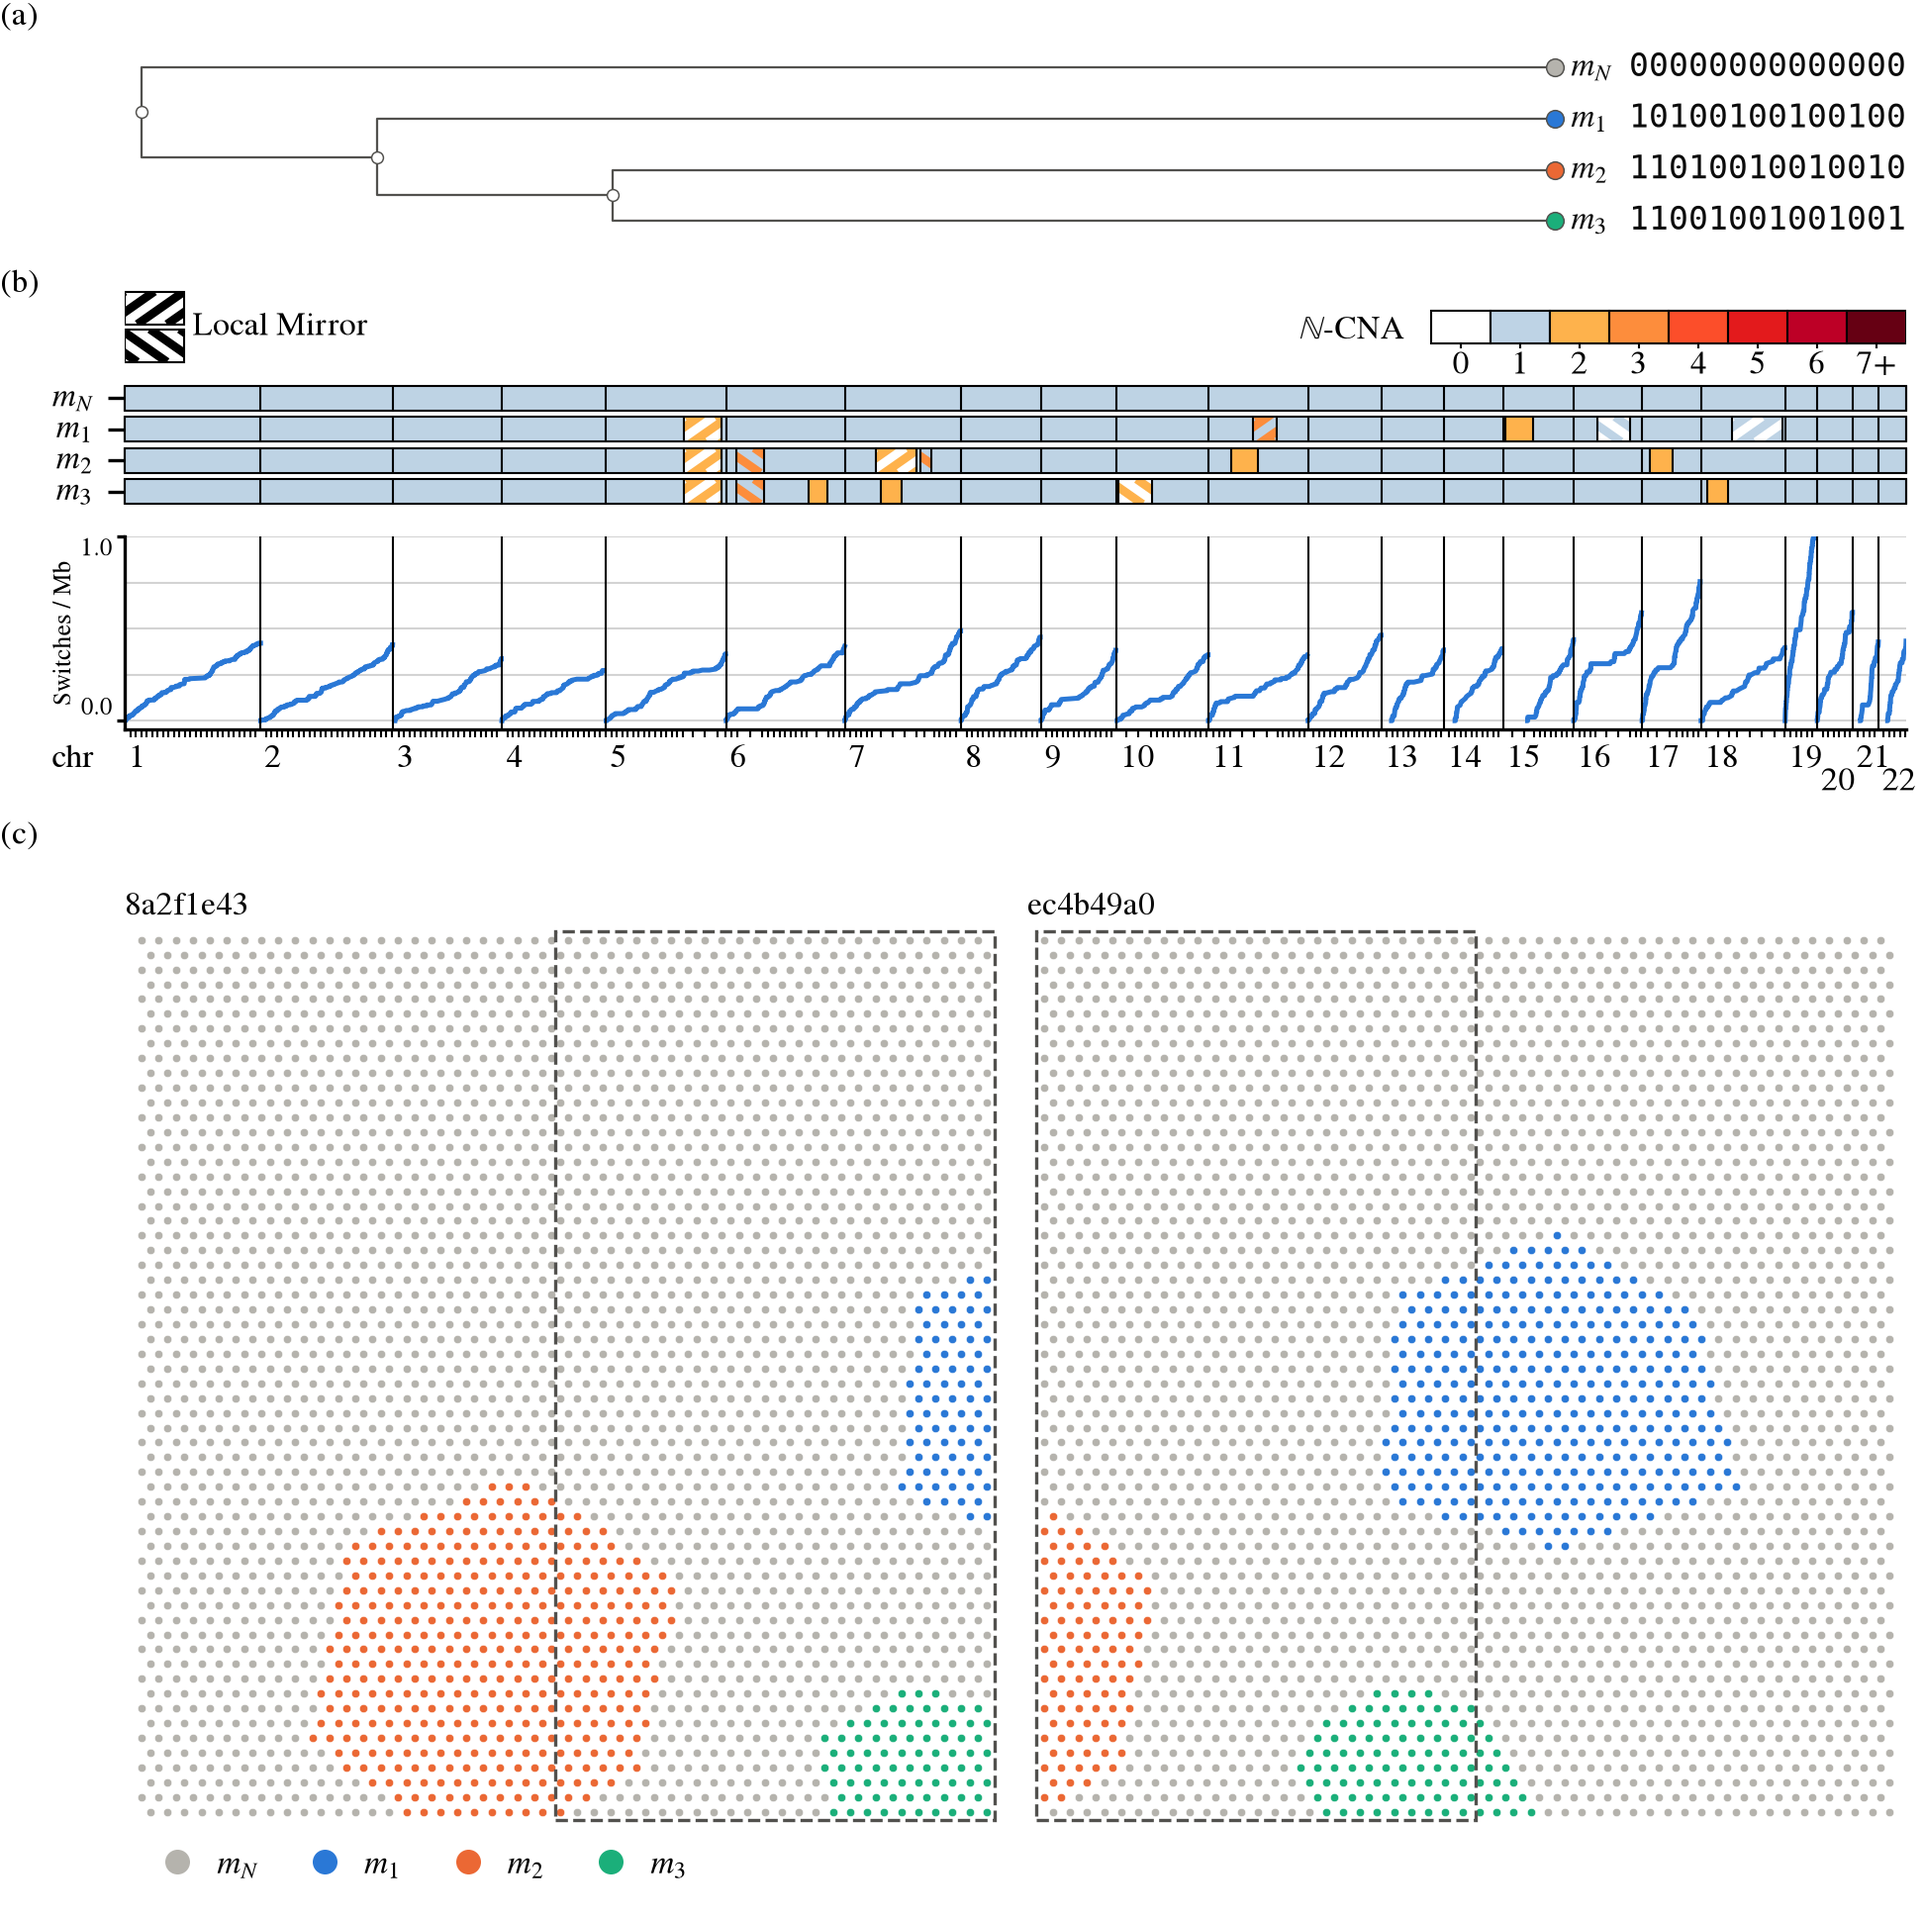
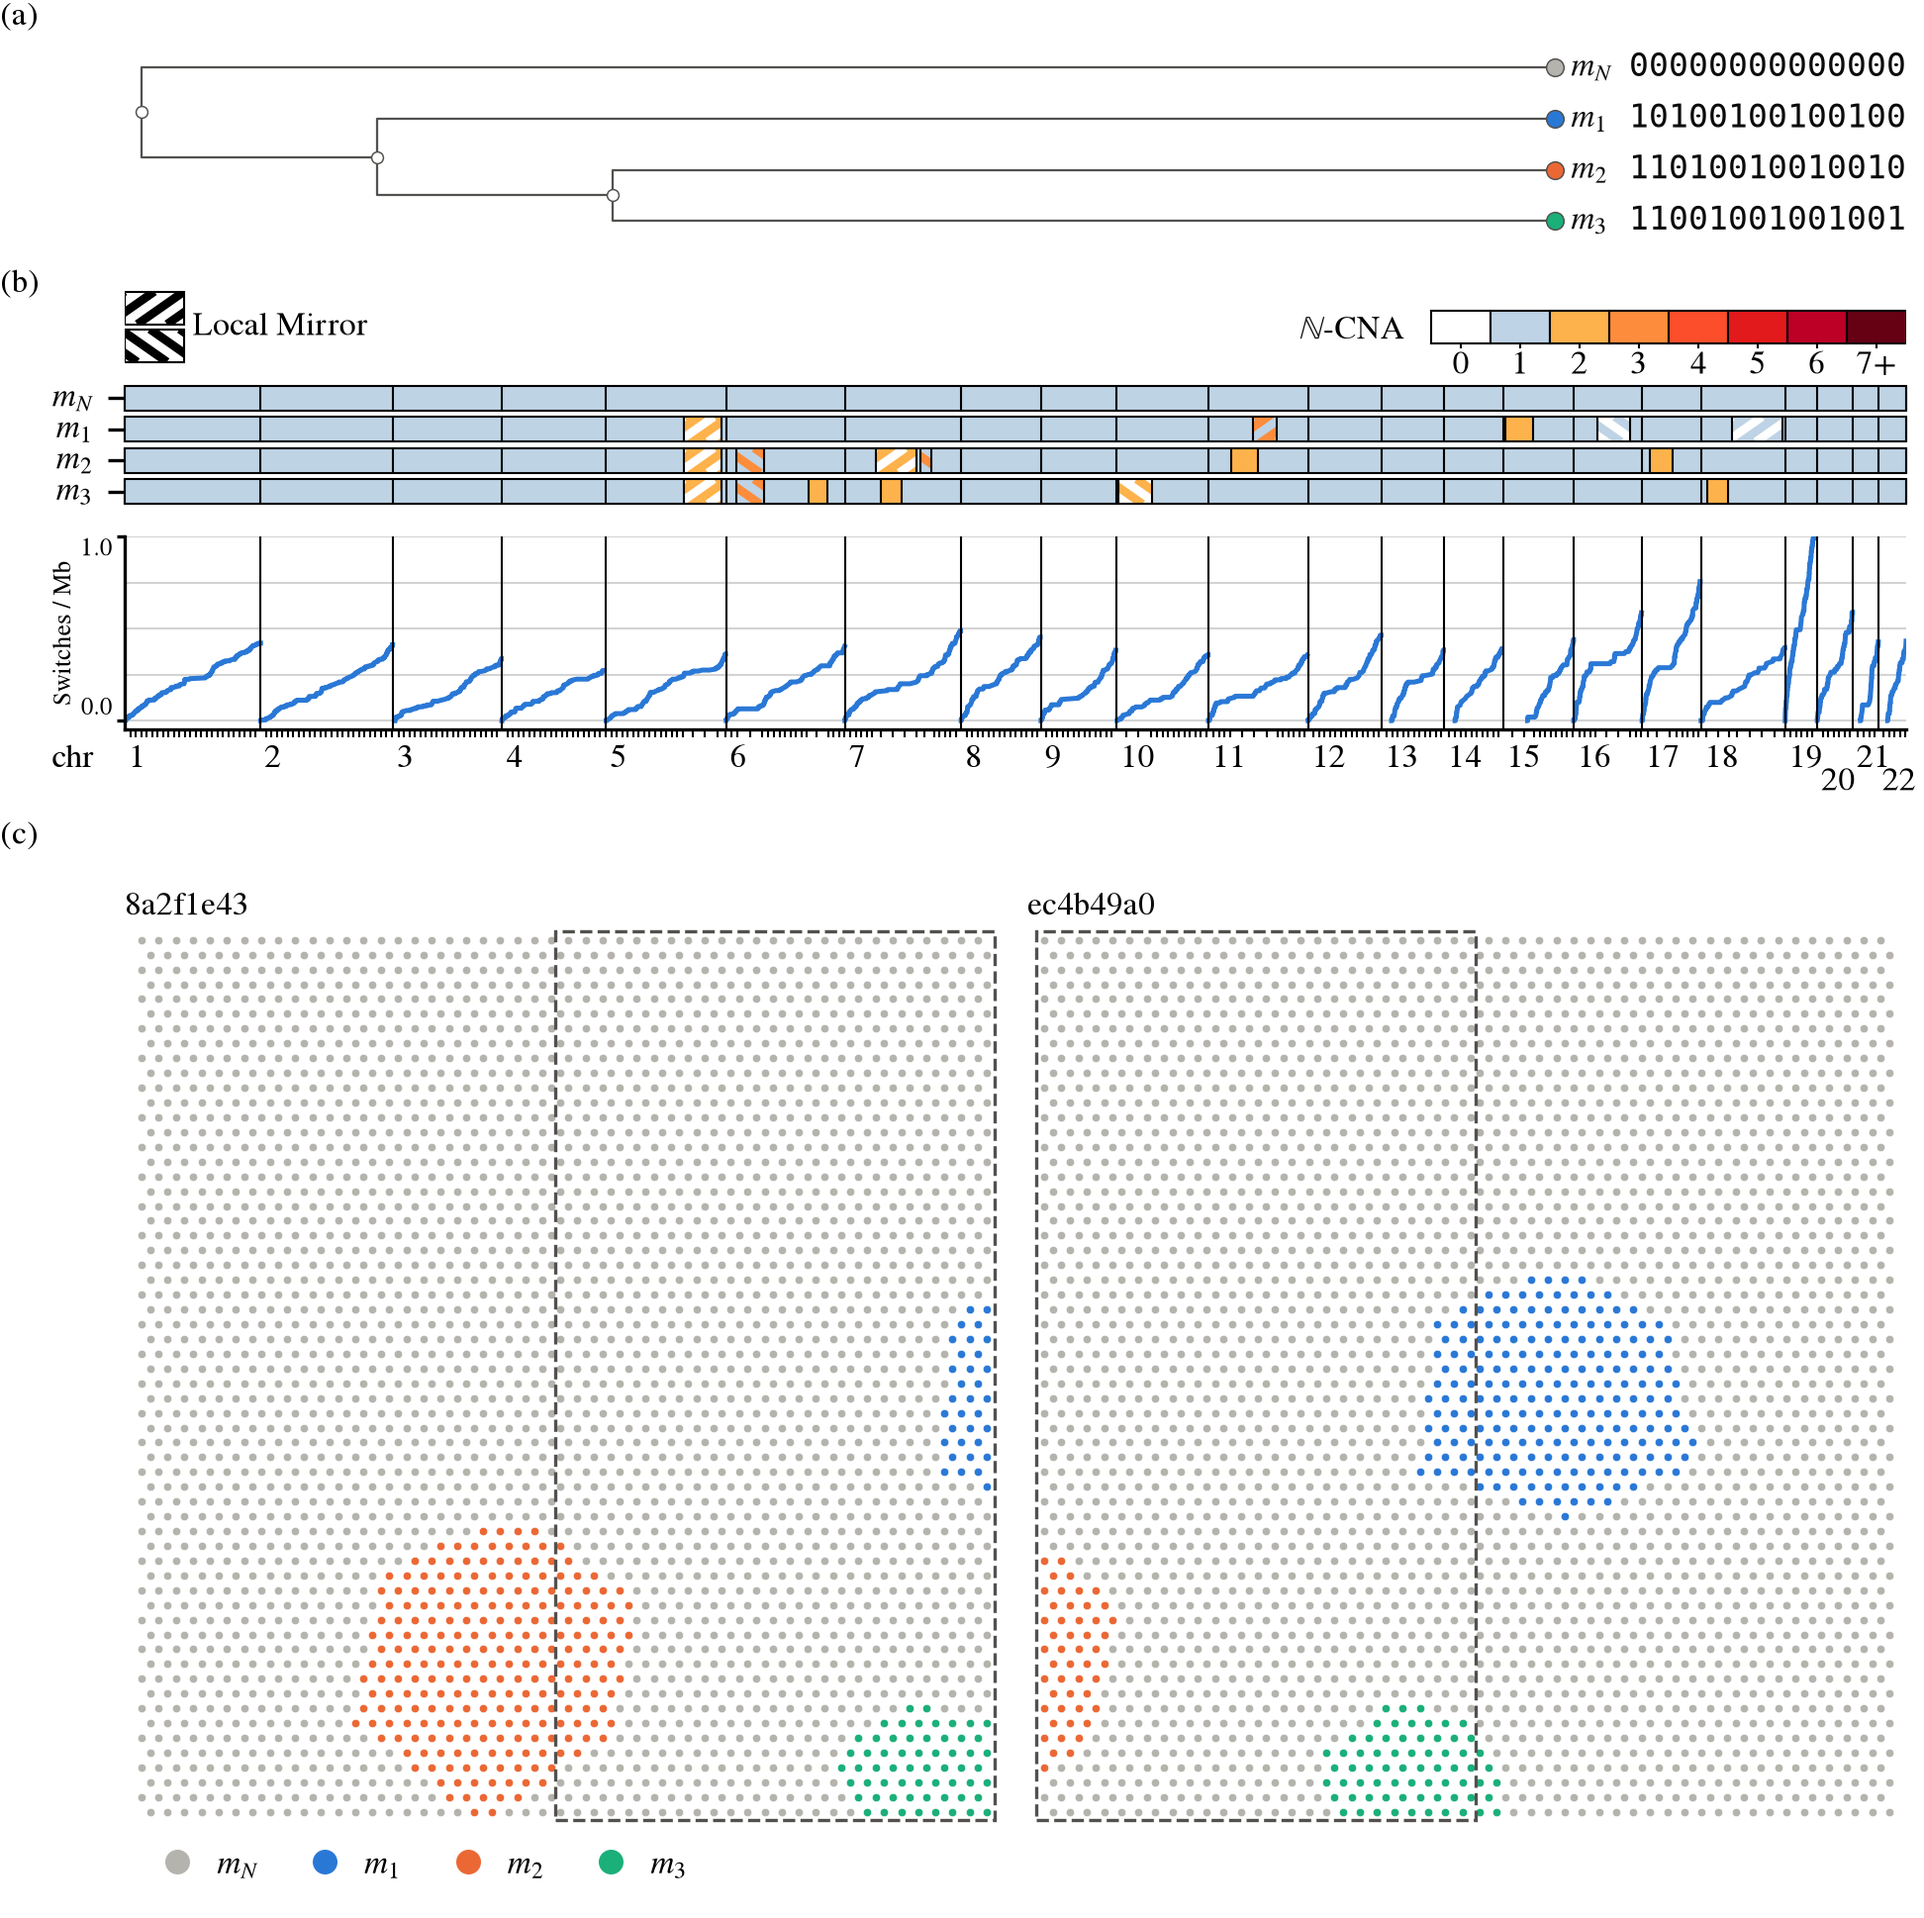
T- #810: truth pages redrawn under edge = "clip" (study_2s r0 088e4b38, r1 f225d910)
Claude-Session: https://claude.ai/code/session_01JXaY8ogGJw3Lo2bAgEaAaH

diff --git a/docs/plots/paper/README.md b/docs/plots/paper/README.md
@@ -38,7 +38,7 @@ T- #683), each on its own segmentation, so their contig widths differ.
 | `he_multisample.png` | What H&E slide do the counterpart's planted clones stain, slice by slice? | `he_slices_figure`: `port.sim.he_slide.mock_he` per slice |
 | `combined.png` | What did the run fit, genome and array on one page? | `port.extensions.combined_figure.combined_figure` |
 | `pop_combined.png` | How many UMIs does a clone need, how long must a CNA be, at each stay probability 1 - t, and how often is a true-(1, 1) segment called altered? | `port.studies.population_report.combined` on `docs/studies/population_summary_limited.json` (#745's limited rerun; #746 the full) |
-| `study/truth_combined_spatial_2s_r0.png`, `study/truth_combined_spatial_2s_r1.png` | What does the studies' draw plant, on two samples (`sim/manifests/study_2s.toml`: `study.toml` on two slices overlapping by half an array, r0 `0abf60fc`, r1 `2539a28e`), and does each realization redraw its truth? | `truth_combined_figure(spatial=True)` on each realization, as `truth_figures` draws the fixture's (T- #810) |
+| `study/truth_combined_spatial_2s_r0.png`, `study/truth_combined_spatial_2s_r1.png` | What does the studies' draw plant, on two samples (`sim/manifests/study_2s.toml`: `study.toml` on two slices overlapping by half an array, r0 `088e4b38`, r1 `f225d910`), and does each realization redraw its truth? | `truth_combined_figure(spatial=True)` on each realization, as `truth_figures` draws the fixture's (T- #810) |
 | `solver_combined.md` | What was `solver_combined.png` drawn from? | `solver_note`: both records' data hashes, their settings and the code |
 | `solver_combined.png` | How far above the best does each spatial solver and each copy-state start end, and how fast? | `solver_figure`: `port.studies.potts_plot.draw`, `port.studies.copy_state_plot.draw` |
 
